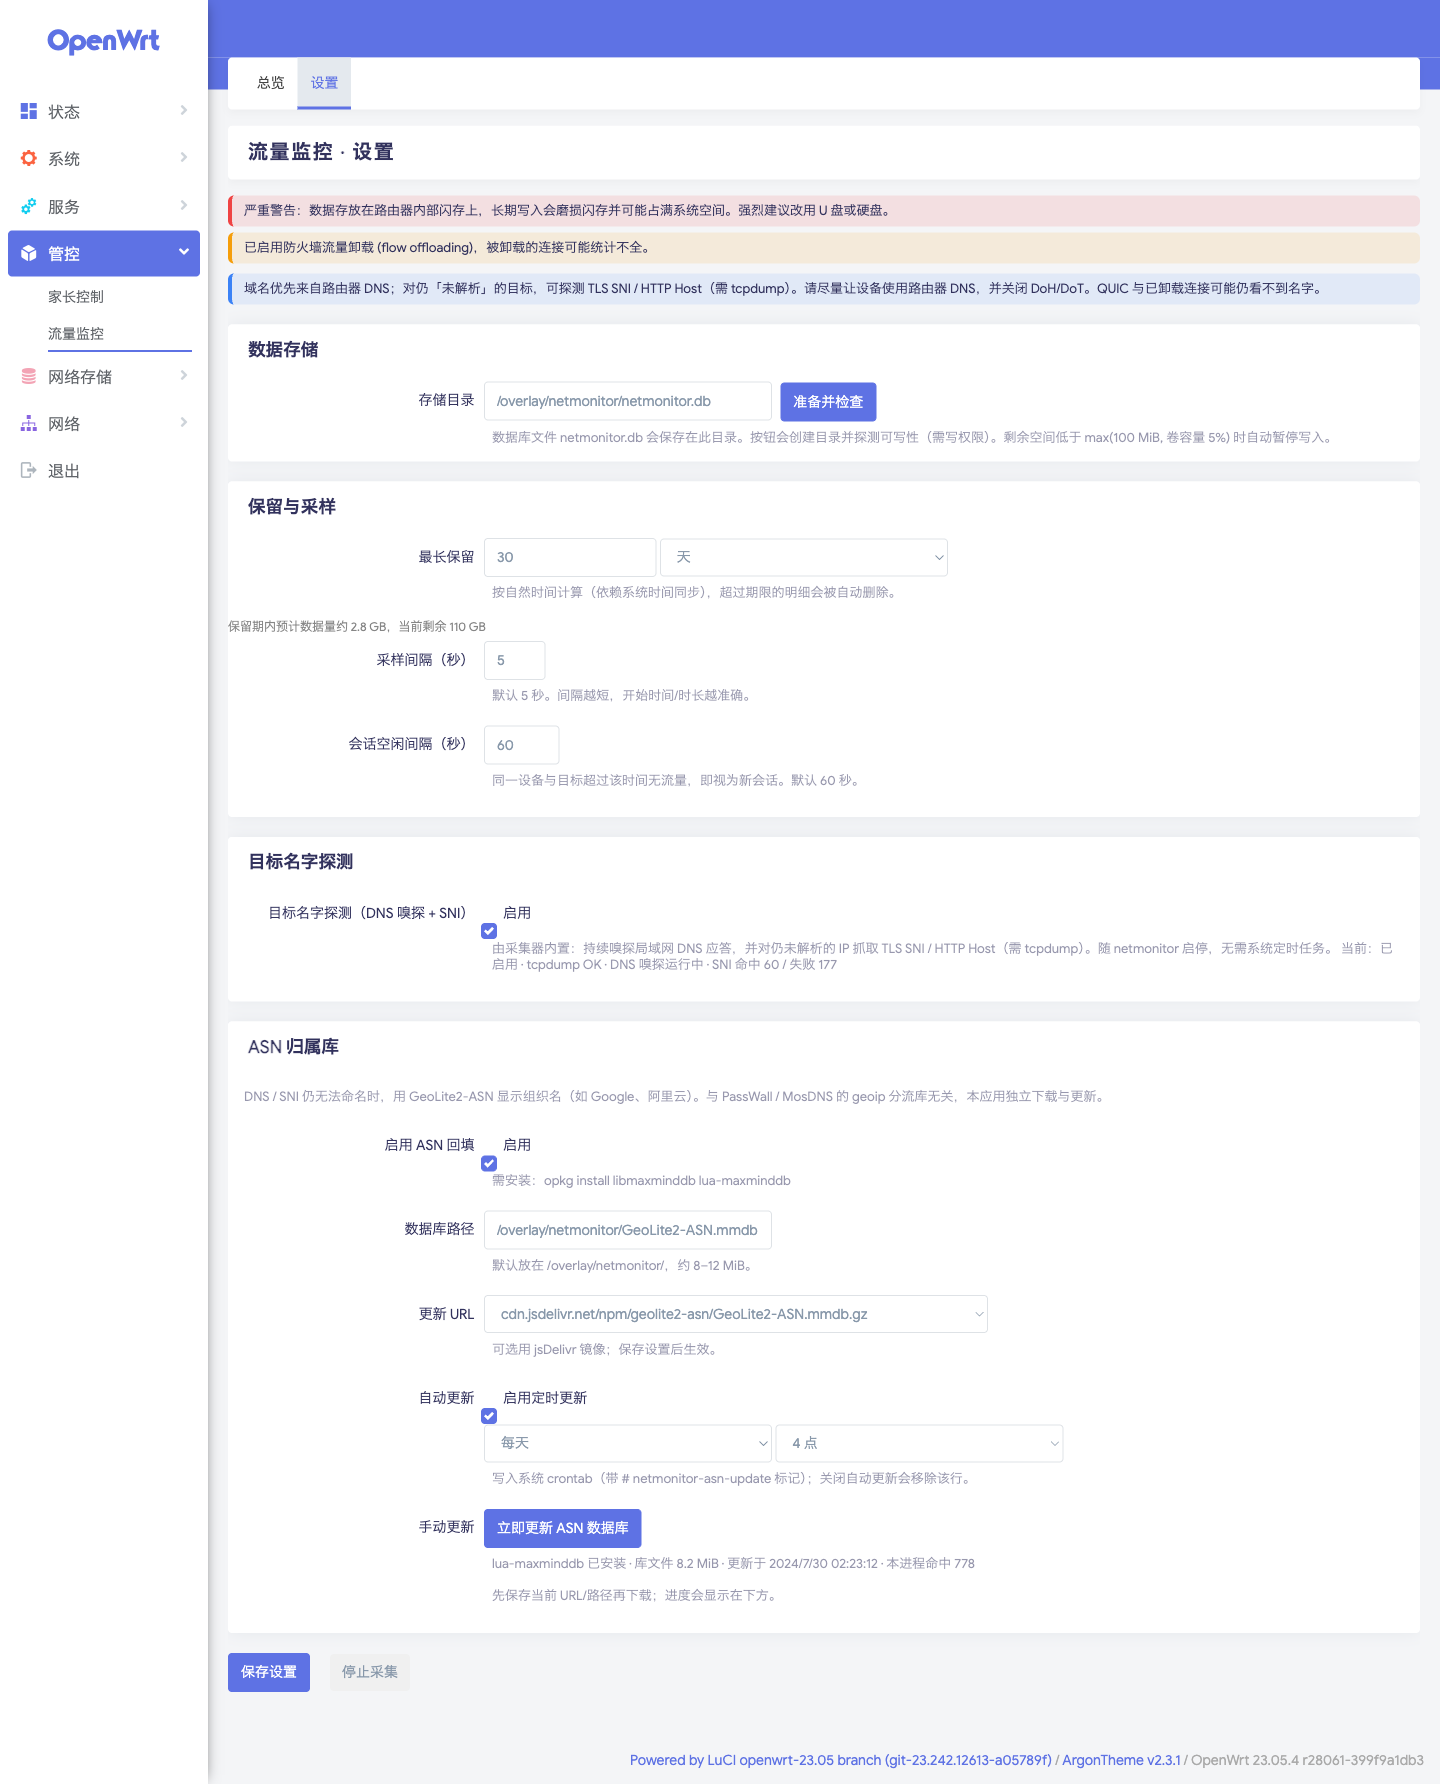
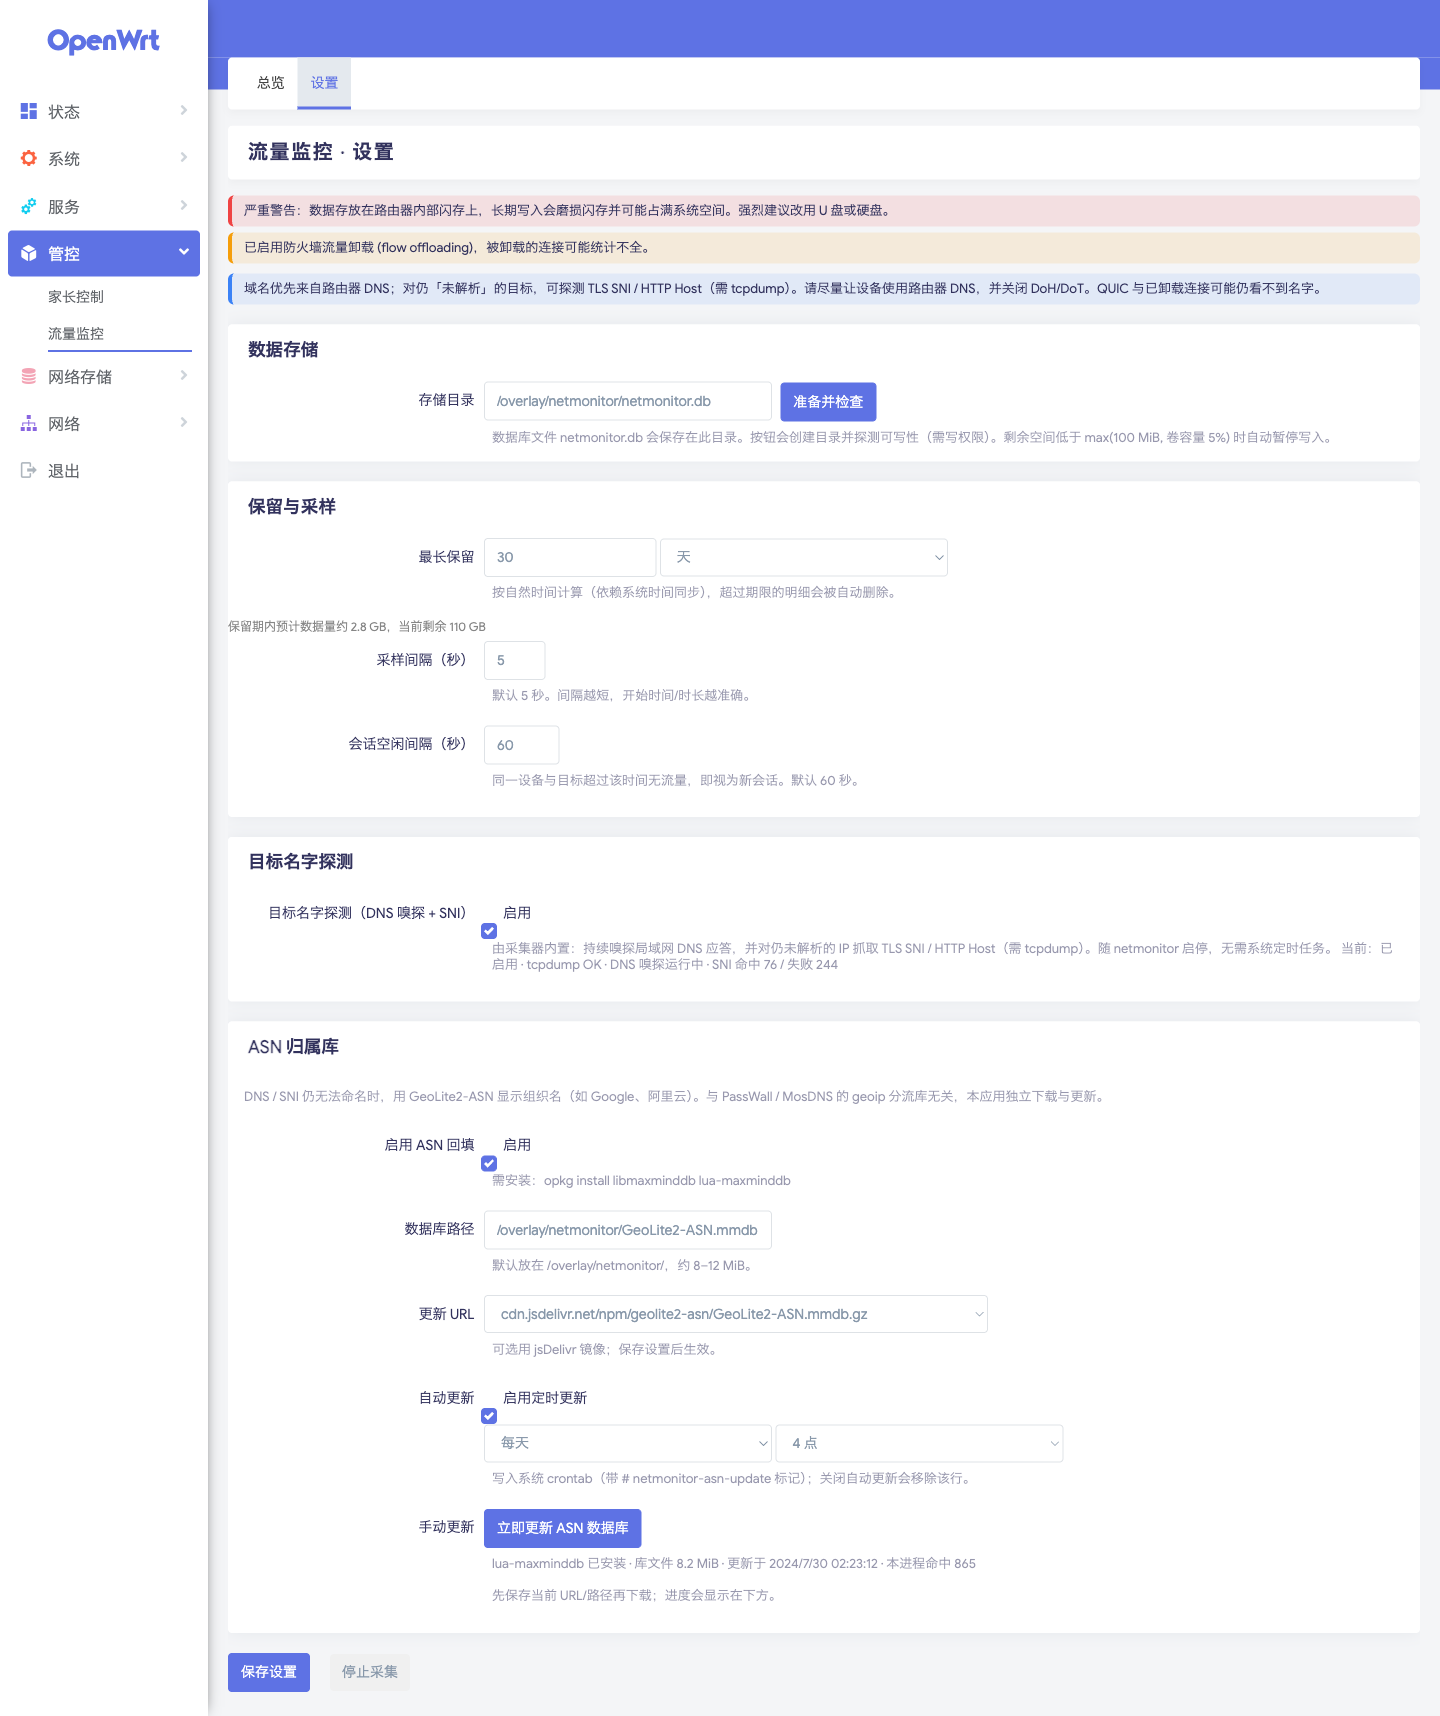
docs: strip LuCI/theme version footer from screenshots
Remove Powered-by LuCI / ArgonTheme / OpenWrt revision lines from
captured images as part of screenshot desensitization.

diff --git a/README.md b/README.md
@@ -17,7 +17,7 @@ OpenWrt / ImmortalWrt / iStoreOS LuCI 插件：按局域网设备统计「谁访
 
 ## 截图
 
-截图已脱敏：局域网 IP → `192.168.1.x`，外网 IP → `203.0.113.x`，MAC 遮盖；设备名 → `Device-N`；右侧目的地 / 会话目标 / 设备卡片主目标中的真实域名与 ASN 组织名 → `serviceN.example.com` / `Cloud-Org-N`。
+截图已脱敏：局域网 IP → `192.168.1.x`，外网 IP → `203.0.113.x`，MAC 遮盖；设备名 → `Device-N`；目的地域名 / ASN 组织名 → `serviceN.example.com` / `Cloud-Org-N`；底部 LuCI / 主题 / 固件版本页脚已移除。
 
 ### 总览（拓扑 + 设备网格）
 
